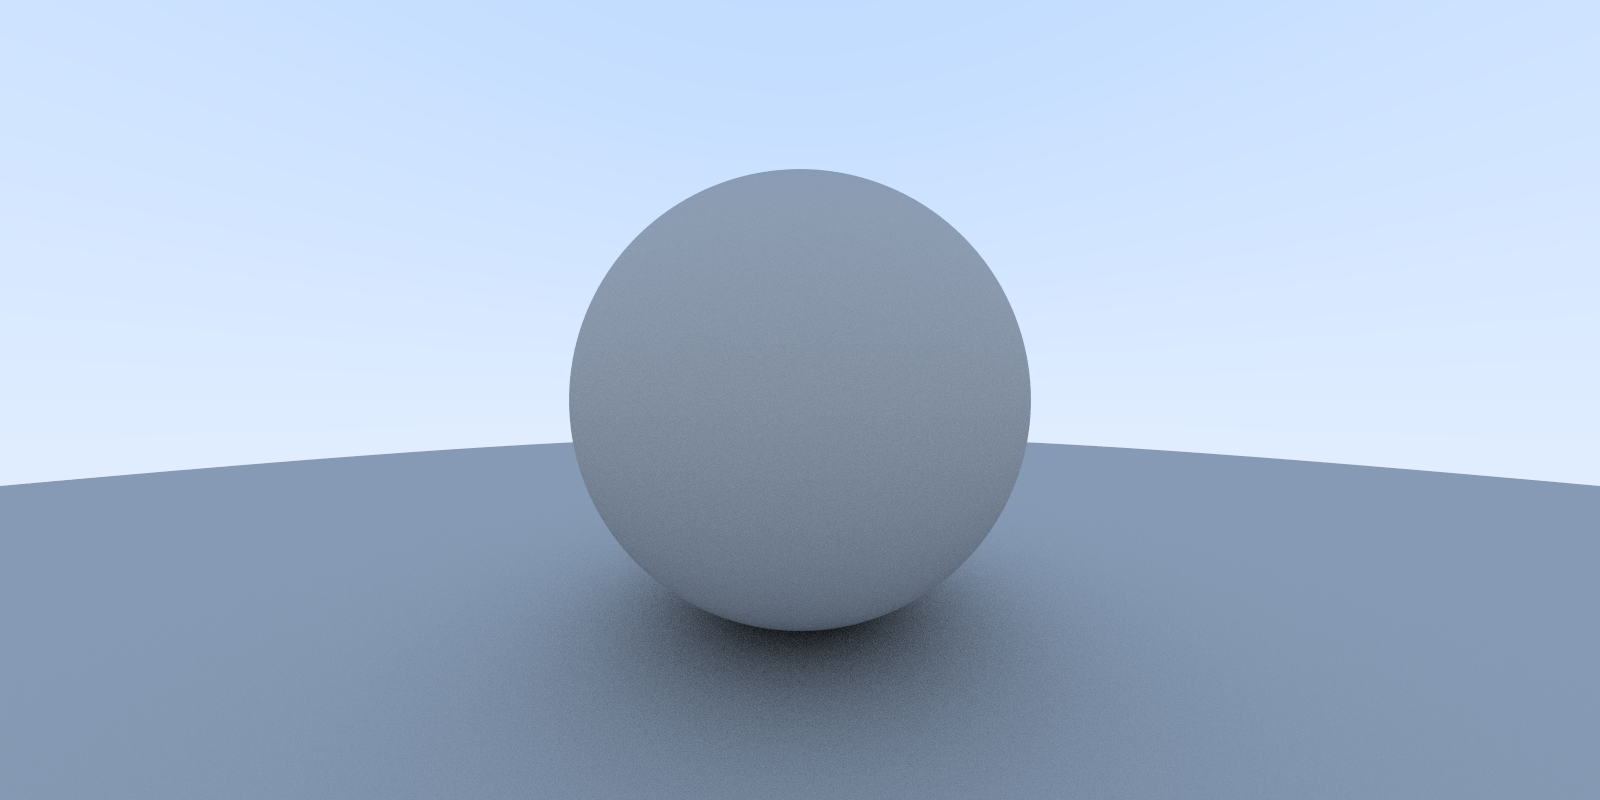
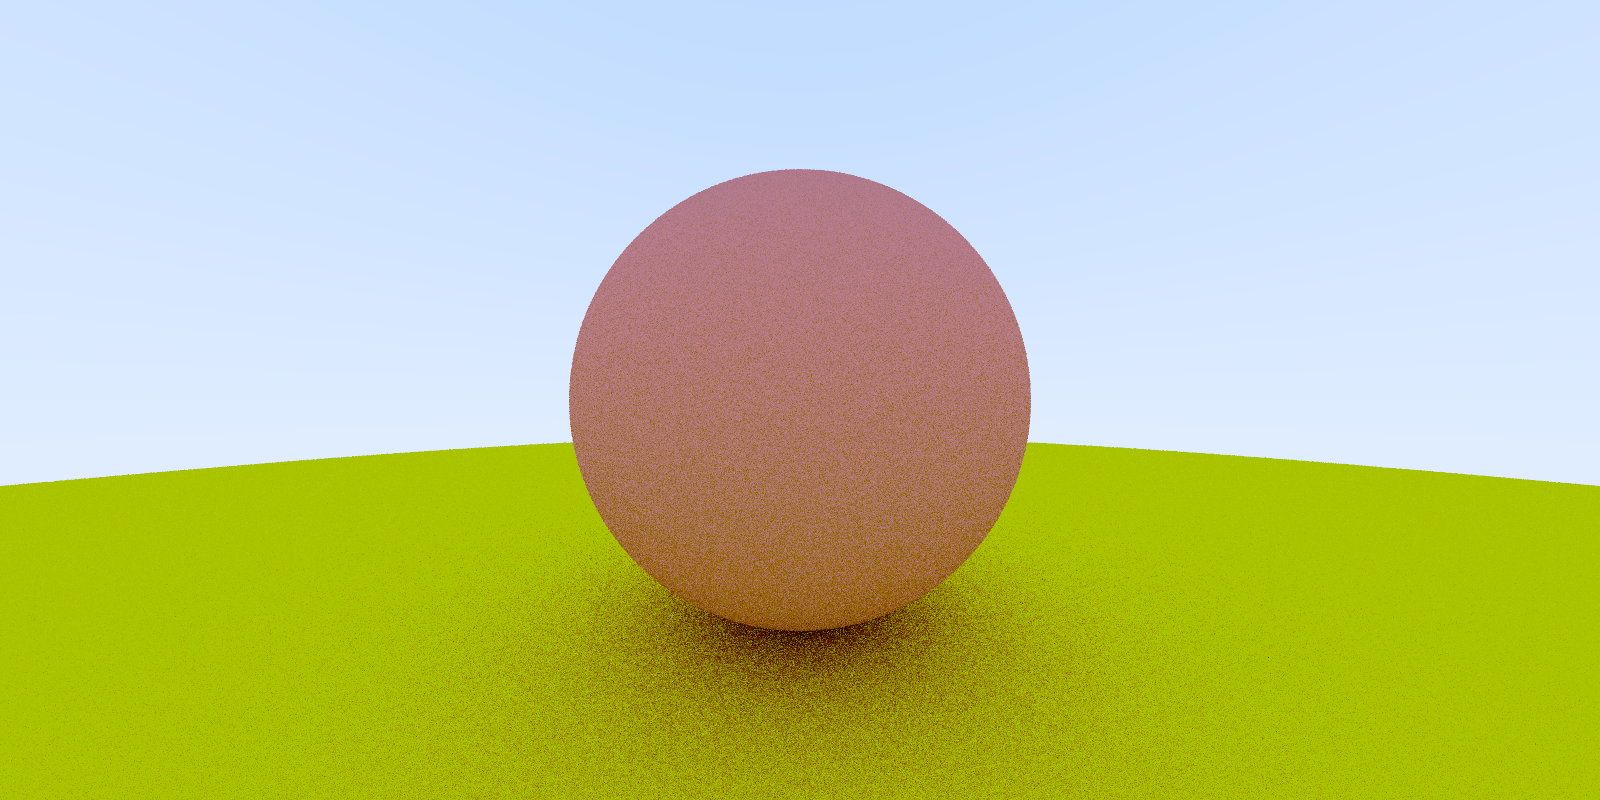
add materials

diff --git a/raytracer/raytracer.cpp b/raytracer/raytracer.cpp
@@ -1,14 +1,22 @@
 #include "camera.h"
 #include "hitablelist.h"
+#include "material.h"
+#include "materials/lambertian.h"
 #include "raytracer.h"
 #include "sphere.h"
 #include "glm/gtc/random.hpp"
 
-vec3 color(const ray& r, hitable* world) {
+vec3 color(const ray& r, hitable* world, int depth) {
     hit_record rec;
     if(world->hit(r, 0.001, MAXFLOAT, rec)) {
-        vec3 target = rec.p + rec.normal + ballRand<float>(1);
-        return vec3(0.5)*color(ray(rec.p, target-rec.p), world);
+        ray scattered;
+        vec3 attenuation;
+        if(depth < 50 && rec.mat->scatter(r, rec, attenuation, scattered)) {
+            return attenuation*color(scattered, world, depth+1);
+        }
+        else {
+            return vec3(0);
+        }
     }
     else {
         vec3 unit_direction = normalize(r.direction());
@@ -26,8 +34,8 @@ void redraw(U8* outPtr, int width, int height) {
 #endif
     
     hitable* list[2];
-    list[0] = new sphere(vec3(0,0,-1), 0.5);
-    list[1] = new sphere(vec3(0, -100.5, -1), 100);
+    list[0] = new sphere(vec3(0,0,-1), 0.5, new lambertian(vec3(0.8, 0.3, 0.3)));
+    list[1] = new sphere(vec3(0, -100.5, -1), 100, new lambertian(vec3(0.8, 0.8, 0.0)));
     hitable* world = new hitable_list(list, 2);
     camera cam;
     
@@ -38,7 +46,7 @@ void redraw(U8* outPtr, int width, int height) {
                 float u = float(i + drand48()) / width;
                 float v = float(j + drand48()) / height;
                 ray r = cam.get_ray(u, v);
-                col += color(r, world);
+                col += color(r, world, 0);
             }
             col /= ns;
             col = sqrt(col);

diff --git a/raytracer/sphere.cpp b/raytracer/sphere.cpp
@@ -12,6 +12,7 @@ bool sphere::hit(const ray& r, float t_min, float t_max, hit_record& rec) const 
             rec.t = temp;
             rec.p = r.point_at_parameter(rec.t);
             rec.normal = (rec.p - center) / radius;
+            rec.mat = mat;
             return true;
         }
         temp = (-b + sqrt(b*b - a*c)) / a;
@@ -19,6 +20,7 @@ bool sphere::hit(const ray& r, float t_min, float t_max, hit_record& rec) const 
             rec.t = temp;
             rec.p = r.point_at_parameter(rec.t);
             rec.normal = (rec.p - center) / radius;
+            rec.mat = mat;
             return true;
         }
     }

diff --git a/raytracer/sphere.h b/raytracer/sphere.h
@@ -4,10 +4,11 @@
 
 struct sphere : public hitable {
     sphere() {};
-    sphere(vec3 cen, float r) : center(cen), radius(r) {}
+    sphere(vec3 cen, float r, material* mat) : mat(mat), center(cen), radius(r) {}
     
     virtual bool hit(const ray& r, float t_min, float t_max, hit_record& rec) const;
     
     vec3 center;
+    material* mat;
     float radius;
 };

diff --git a/raytracer/materials/metal.cpp b/raytracer/materials/metal.cpp
@@ -1,0 +1,9 @@
+#include "metal.h"
+#include "glm/glm.hpp"
+
+bool metal::scatter(const ray& r_in, const hit_record& rec, vec3& attenuation, ray& scattered) const {
+    vec3 reflected = reflect(normalize(r_in.direction()), rec.normal);
+    scattered = ray(rec.p, reflected);
+    attenuation = albedo;
+    return (dot(scattered.direction(), rec.normal) > 0);
+}

diff --git a/raytracer/materials/lambertian.cpp b/raytracer/materials/lambertian.cpp
@@ -1,0 +1,9 @@
+#include "lambertian.h"
+#include "glm/gtc/random.hpp"
+
+bool lambertian::scatter(const ray& r_in, const hit_record& rec, vec3& attenuation, ray& scattered) const {
+    vec3 target = rec.p + rec.normal + ballRand(1.0f);
+    scattered = ray(rec.p, target-rec.p);
+    attenuation = albedo;
+    return true;
+}

diff --git a/raytracer/materials/lambertian.h b/raytracer/materials/lambertian.h
@@ -1,0 +1,10 @@
+#pragma once
+#include "material.h"
+
+struct lambertian : public material {
+    lambertian(const vec3& a) : albedo(a) {}
+    
+    virtual bool scatter(const ray& r_in, const hit_record& rec, vec3& attenuation, ray& scattered) const;
+    
+    vec3 albedo;
+};

diff --git a/raytracer/materials/metal.h b/raytracer/materials/metal.h
@@ -1,0 +1,10 @@
+#pragma once
+#include "material.h"
+
+struct metal : public material {
+    metal(const vec3& a) : albedo(a) {}
+    
+    virtual bool scatter(const ray& r_in, const hit_record& rec, vec3& attenuation, ray& scattered) const;
+    
+    vec3 albedo;
+};

diff --git a/raytracer/material.h b/raytracer/material.h
@@ -1,0 +1,8 @@
+#pragma once
+#include "glm/glm.hpp"
+#include "hitable.h"
+using namespace glm;
+
+struct material {
+    virtual bool scatter(const ray& r_in, const hit_record& rec, vec3& attenuation, ray& scattered) const = 0;
+};

diff --git a/raytracer/hitable.h b/raytracer/hitable.h
@@ -2,10 +2,13 @@
 
 #include "ray.h"
 
+struct material;
+
 struct hit_record {
     float t;
     vec3 p;
     vec3 normal;
+    material* mat;
 };
 
 struct hitable {

diff --git a/raytracer/material.cpp b/raytracer/material.cpp
@@ -1,0 +1,1 @@
+#include "material.h"
